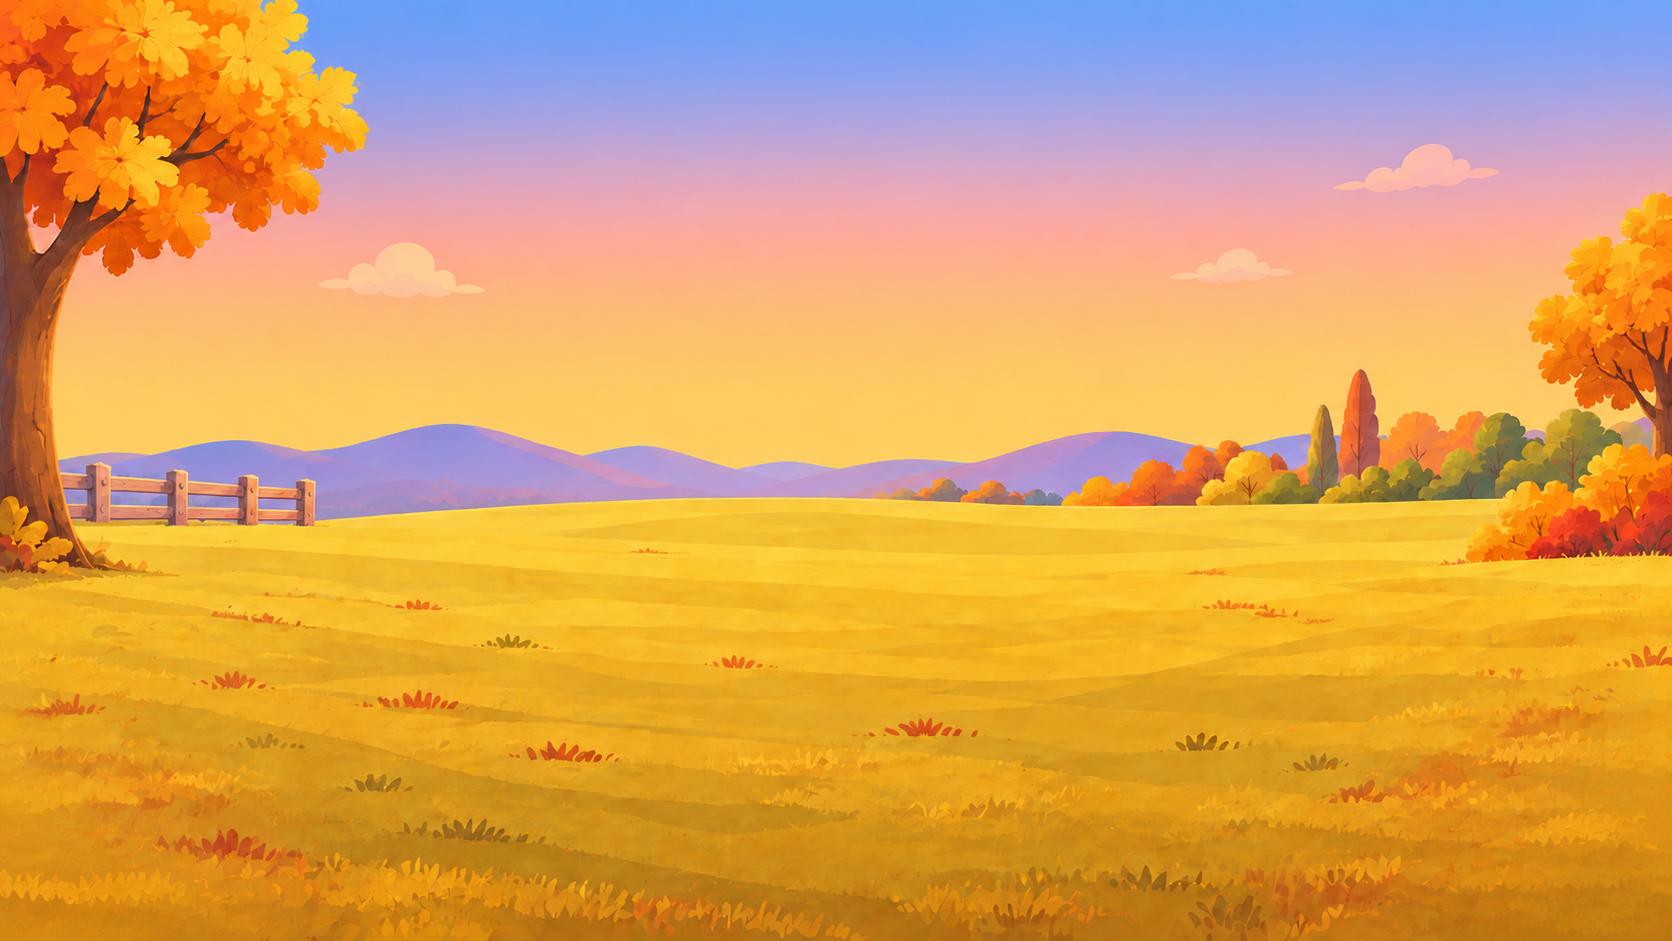
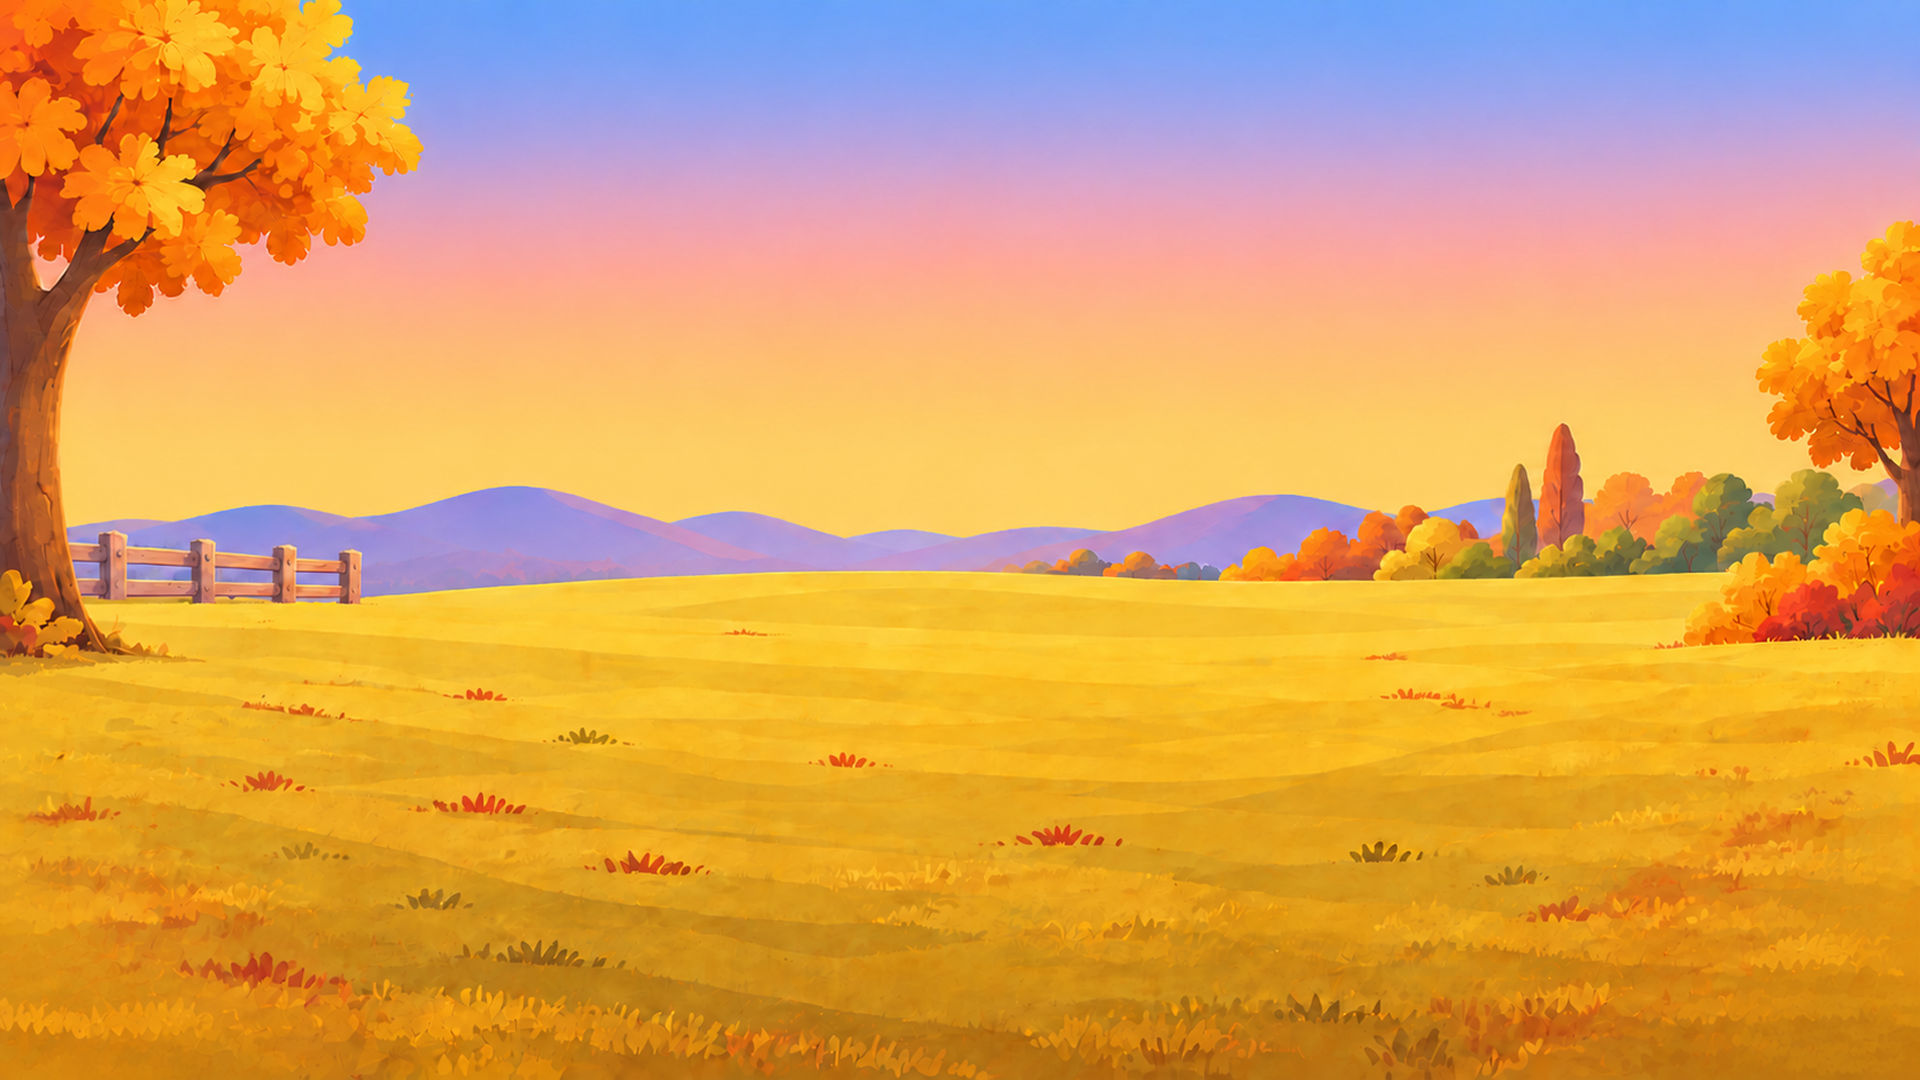
done

diff --git a/js/config.js b/js/config.js
@@ -13,7 +13,7 @@ window.CFG = (function () {
   /* ---------- Asset paths ---------- */
   const ART = {
     startScreen: 'assets/start screen.png',
-    background:  'assets/background game.png',
+    background:  'assets/game Background .png',
     clouds:      'assets/clouds.png',
     playButton:  'assets/play button .png',
     swiftyFly:   'assets/swifty fly.png',
@@ -212,8 +212,11 @@ window.CFG = (function () {
      ------------------------------------------------------------- */
   const CLOUD = {
     src: ART.clouds,
-    srcW: 1920, srcH: 1080,
-    ink: { x: 545, y: 257, w: 852, h: 481 },
+    srcW: 2048, srcH: 768,
+    /* The opaque part of the artwork, measured off its alpha: the file
+       carries a wide transparent margin, and the drift is positioned
+       by the cloud itself rather than by the picture around it. */
+    ink: { x: 68, y: 64, w: 1881, h: 621 },
     /* Two small clouds only, at full opacity, looping across the sky.
        `top` is the cloud's top edge and `phase` is how far through its
        loop it starts, so the pair never travels in lockstep. Both sit
@@ -236,8 +239,8 @@ window.CFG = (function () {
          ever seen is the strip of sky above it — and even there they
          should read as distant weather, not as something on the same
          plane as the lesson. */
-      { scale: 0.34, top: 96,  speed: 7,   opacity: 0.5,  phase: 0.30 },
-      { scale: 0.26, top: 212, speed: 4.5, opacity: 0.38, phase: 0.65 }
+      { scale: 0.154, top: 96,  speed: 7,   opacity: 0.5,  phase: 0.30 },
+      { scale: 0.118, top: 212, speed: 4.5, opacity: 0.38, phase: 0.65 }
     ]
   };
 

diff --git a/js/game.js b/js/game.js
@@ -14,7 +14,7 @@
    'bubble', 'bubbleImg', 'bubbleText', 'bubbleLine', 'nextBtn',
    'gridPanel', 'gridImg', 'gridAxes', 'standSwifty',
    'qBanner', 'qBannerImg', 'qBannerText', 'qBannerLine',
-   'formulaBoard', 'leafLayer', 'fxLayer'
+   'formulaBoard', 'leafLayer', 'fxLayer', 'sceneArt', 'startArt'
   ].forEach(function (id) { el[id] = document.getElementById(id); });
 
   /* ---------------- responsive stage ---------------- */
@@ -2224,6 +2224,14 @@
 
   /* ---------------- boot ---------------- */
   function boot() {
+    /* The two full-frame pictures take their source from config rather
+       than from the markup. They used to be hardcoded in the HTML,
+       which meant a renamed file left ART pointing at the new name
+       while the page still asked for the old one — and the background
+       silently failed to load. */
+    el.sceneArt.src = C.ART.background;
+    el.startArt.src = C.ART.startScreen;
+
     FX.init(el.fxLayer);
     FX.clouds(el.skyLayer);
     FX.leafDrift(el.skyLayer);

diff --git a/index.html b/index.html
@@ -29,7 +29,7 @@
 
     <!-- ============ start screen ============ -->
     <div id="startScreen" class="hidden">
-      <img class="full" src="assets/start screen.png" alt="Distance Formula">
+      <img id="startArt" class="full" src="assets/start screen.png" alt="Distance Formula">
       <button id="playBtn" aria-label="Play">
         <img id="playImg" src="assets/play button .png" alt="">
       </button>
@@ -37,7 +37,7 @@
 
     <!-- ============ game scene ============ -->
     <div id="scene" class="hidden">
-      <img class="full" src="assets/Background game.png" alt="">
+      <img id="sceneArt" class="full" src="" alt="">
 
       <div id="skyLayer"></div>
 
